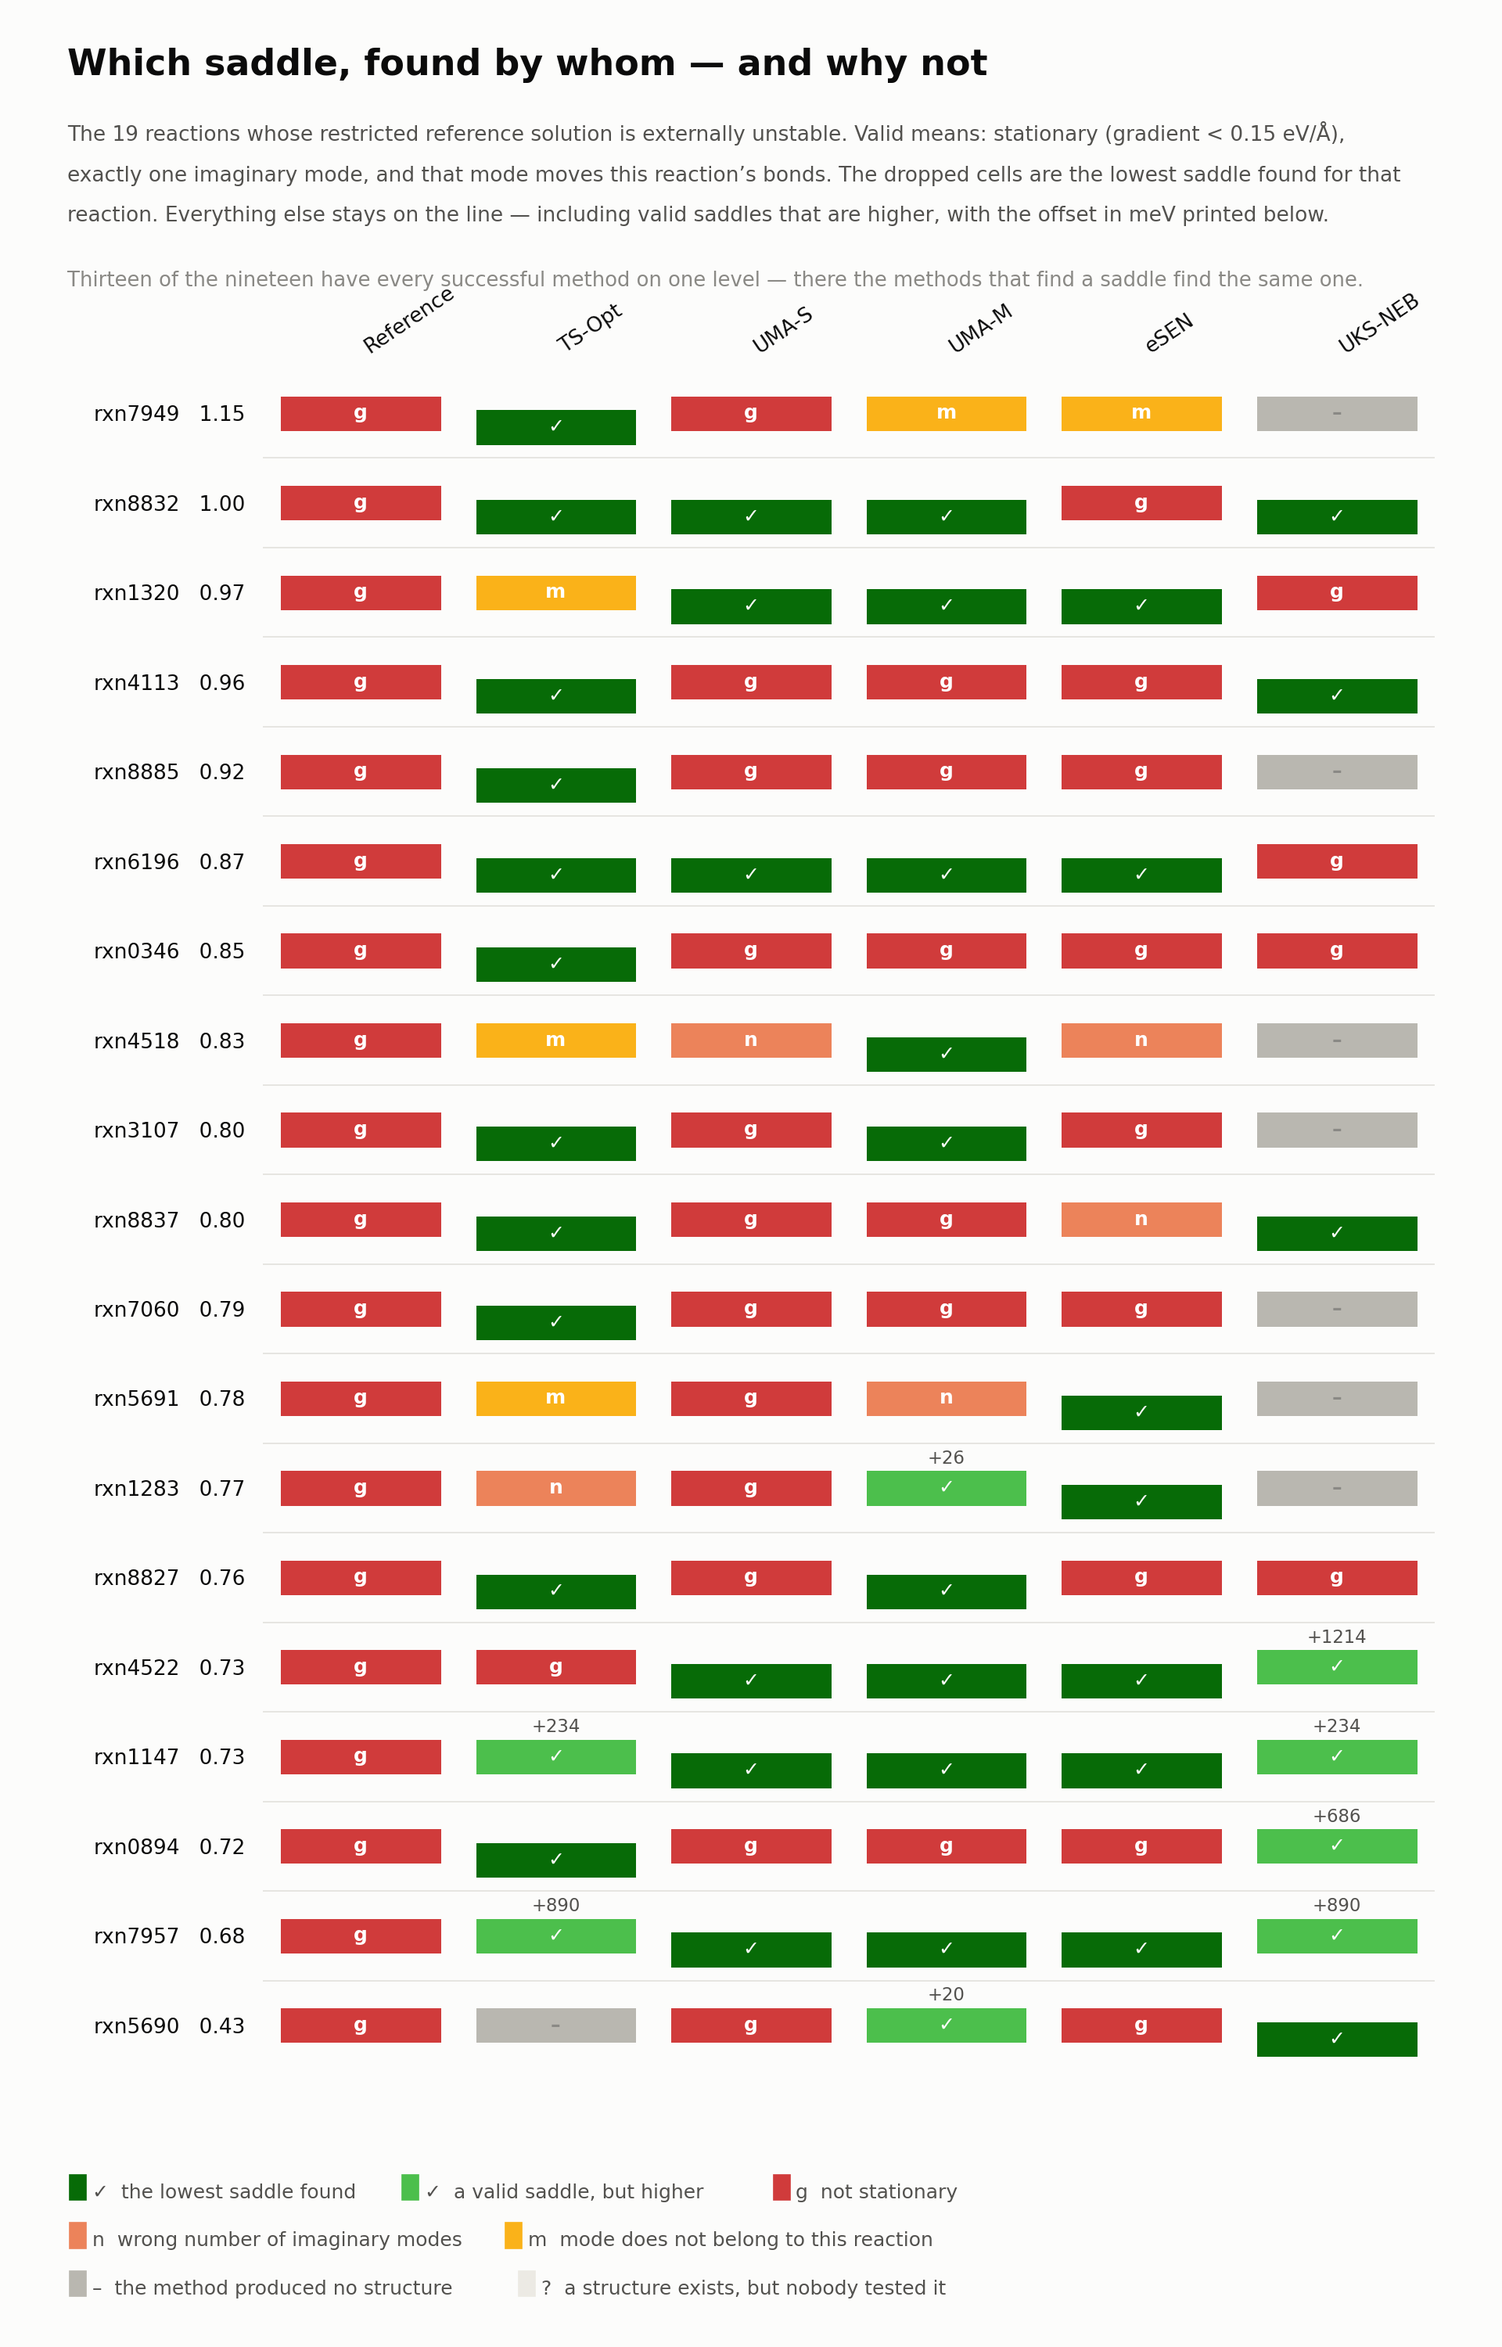
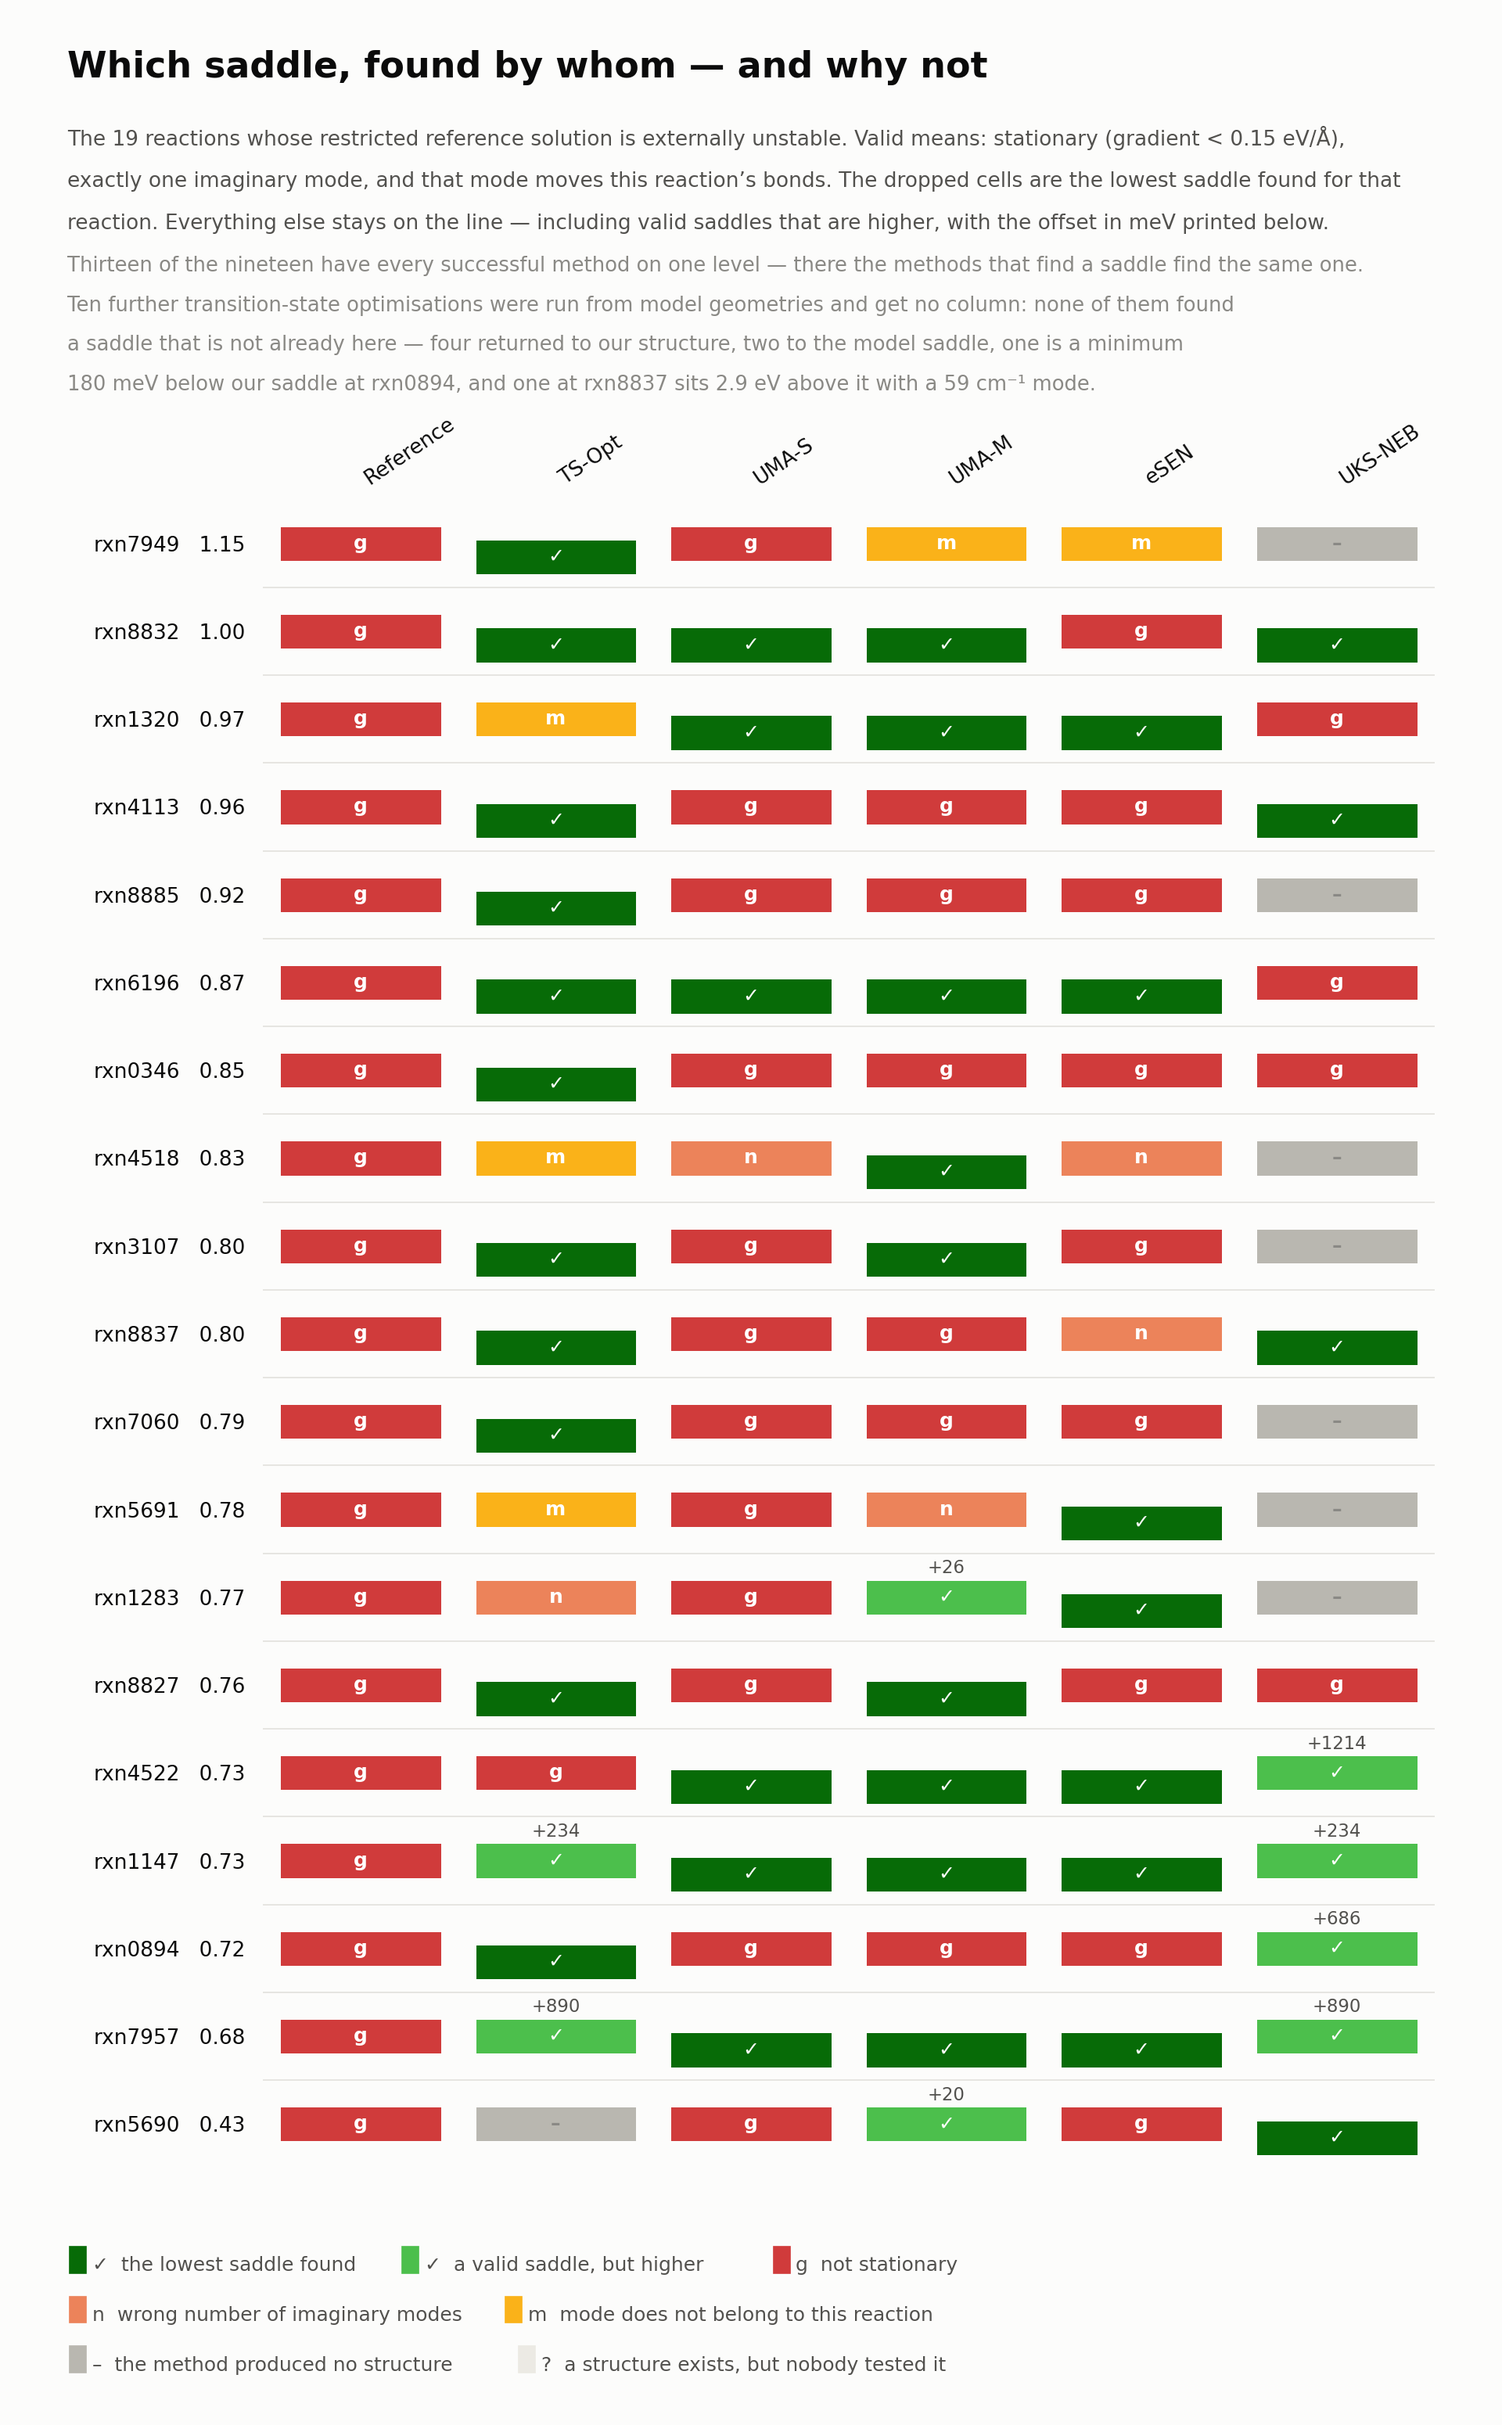
Account for the from-model optimisations in the figure, as a note not a column
The figure claims to show which method found which saddle, and ten
transition-state optimisations started from model geometries were missing from
it entirely. Checked what they produced before deciding how to include them:

  four returned to our own structure (0.002-0.007 A)
  two landed on the model saddle, which is already a column
  rxn0894 gave a MINIMUM -- gradient 0.010, no imaginary mode at all -- sitting
          180 meV below our saddle, the same trap as rxn8885
  rxn8837 gave a saddle 2907 meV above ours with a 59 cm-1 mode
  rxn7060 did not converge, gradient 1.71
  rxn7949 has a 69 cm-1 mode, effectively flat

So none of them found a saddle that is not already in the figure, and a column
would be ten cells repeating their neighbours. It goes in the caption instead.

That is a result rather than an omission: an eleventh search, from ten
different starting geometries, turned up nothing new. Worth saying, because
the standing caveat on all of this is that a local search only finds what lies
downhill of where it started.

diff --git a/pipeline/plot_saddle_landscape.py b/pipeline/plot_saddle_landscape.py
@@ -346,8 +346,8 @@ NR = len(rows)
 # valid one that is not the lowest, and at the row centre when it found no
 # saddle at all -- height only exists where an energy exists. A separate energy
 # panel beside this said the same thing twice.
-fig = plt.figure(figsize=(9.6, 0.60 * NR + 3.6), facecolor=SURF)
-axS = fig.add_axes([0.175, 0.118, 0.780, 0.725])
+fig = plt.figure(figsize=(9.6, 0.60 * NR + 4.1), facecolor=SURF)
+axS = fig.add_axes([0.175, 0.106, 0.780, 0.688])
 axS.set_facecolor(SURF)
 for sp in axS.spines.values():
     sp.set_visible(False)
@@ -405,10 +405,17 @@ for k, line in enumerate([
     fig.text(0.045, 0.940 - 0.0172 * k, line, fontsize=9.5, color=INK2,
              ha='left')
 
-fig.text(0.045, 0.878,
-         'Thirteen of the nineteen have every successful method on one level — '
-         'there the methods that find a saddle find the same one.',
-         fontsize=9.3, color=INK3, ha='left')
+for k, line in enumerate([
+        'Thirteen of the nineteen have every successful method on one level — '
+        'there the methods that find a saddle find the same one.',
+        'Ten further transition-state optimisations were run from model '
+        'geometries and get no column: none of them found',
+        'a saddle that is not already here — four returned to our structure, '
+        'two to the model saddle, one is a minimum',
+        '180 meV below our saddle at rxn0894, and one at rxn8837 sits 2.9 eV '
+        'above it with a 59 cm⁻¹ mode.']):
+    fig.text(0.045, 0.888 - 0.0163 * k, line, fontsize=9.3, color=INK3,
+             ha='left')
 
 # Three rows. Seven entries on two rows ran the last one off the right edge.
 items = [[('low', 'the lowest saddle found'),
